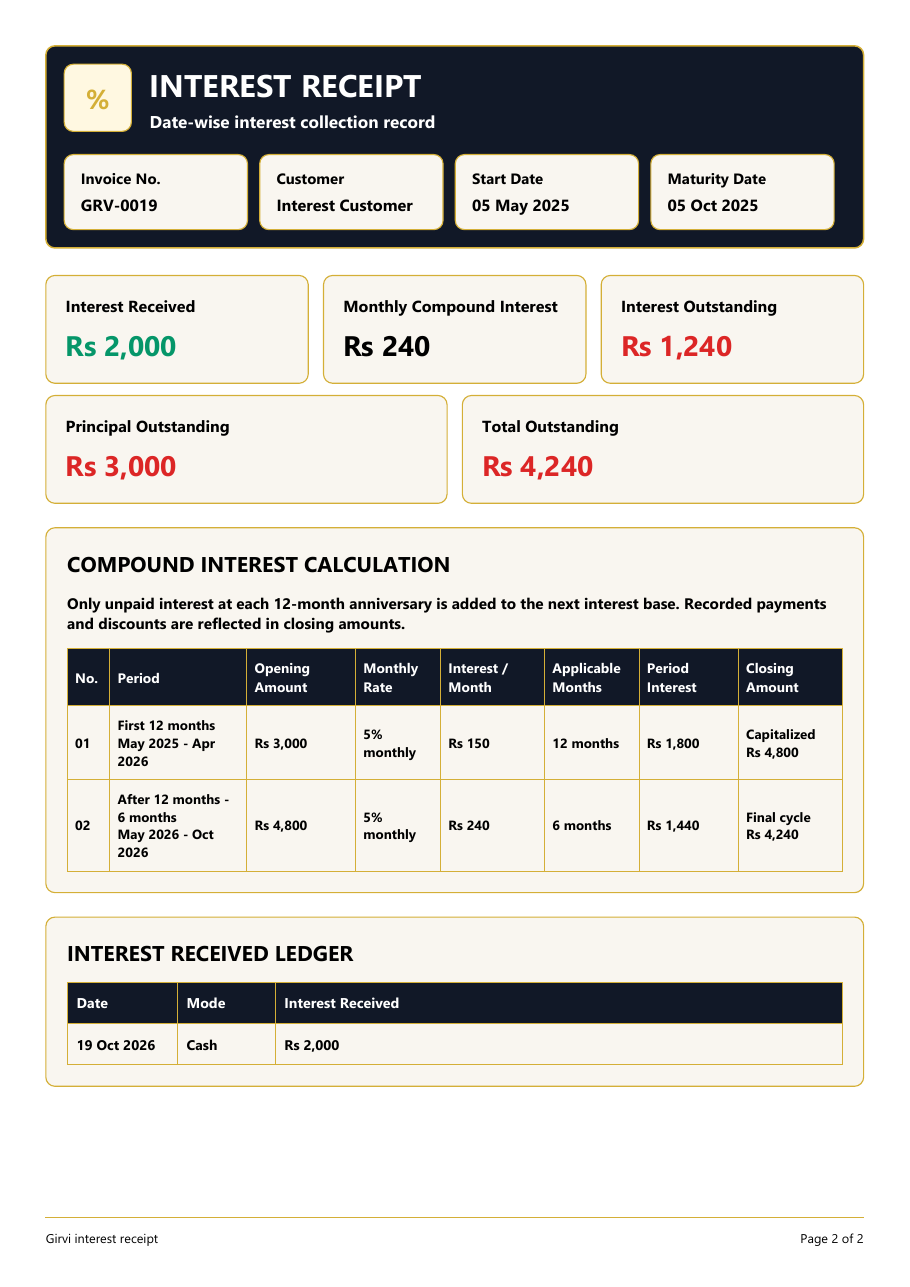
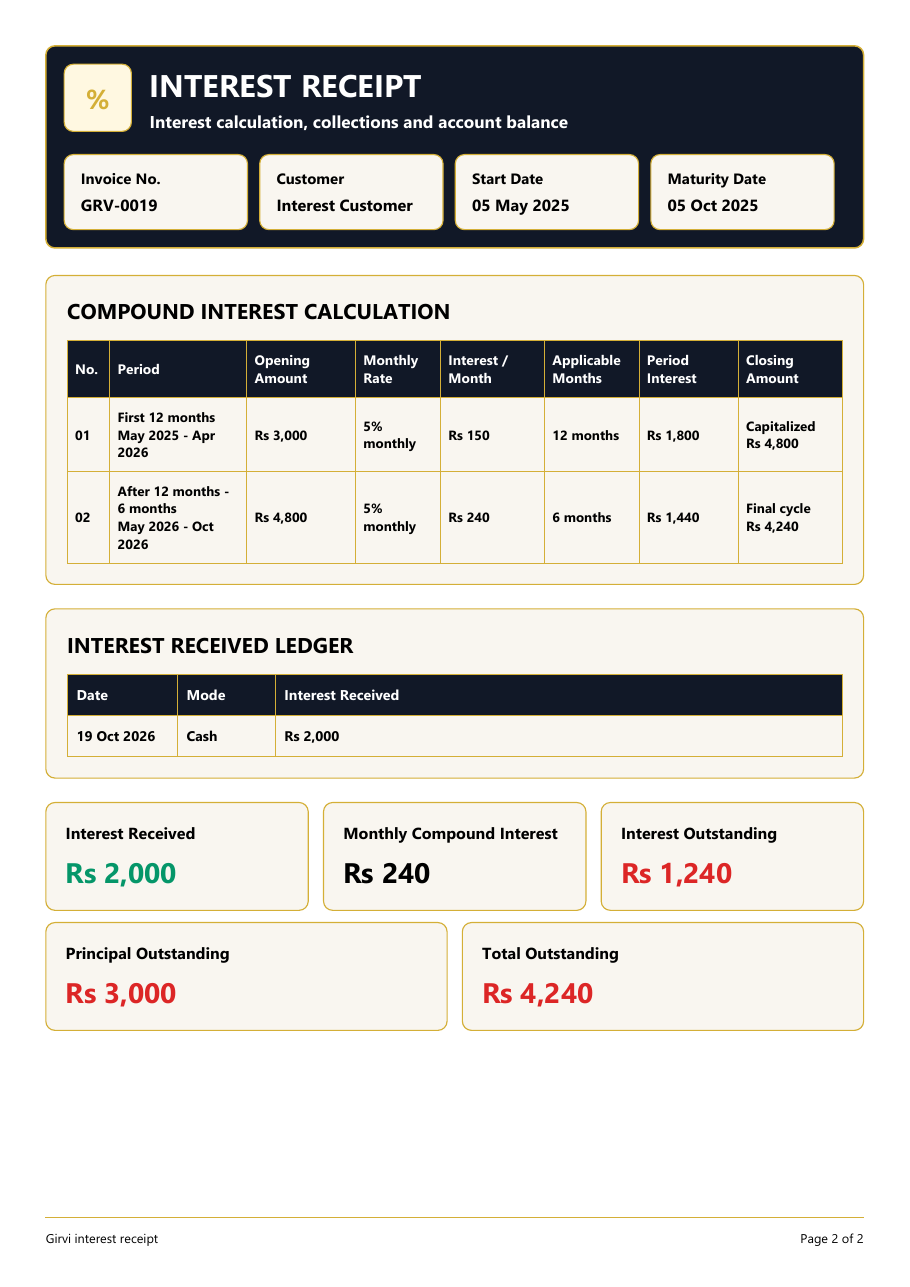
First backup of Lotus Prime ERP

diff --git a/lib/logic/girvi/girvi_invoice_pdf_appendix_pages.dart b/lib/logic/girvi/girvi_invoice_pdf_appendix_pages.dart
@@ -24,25 +24,25 @@ void _appendLifecycleReceiptPages({
         build: (_) => [
           _girviAppendixHeader(
             title: 'INTEREST RECEIPT',
-            subtitle: 'Date-wise interest collection record',
+            subtitle: 'Interest calculation, collections and account balance',
             draft: draft,
             profile: profile,
             duplicateCopy: duplicateCopy,
           ),
           pw.SizedBox(height: 18),
-          _girviInterestSummary(
-            draft,
-            interestEntries,
-            interestQuote,
-            profile,
-          ),
-          pw.SizedBox(height: 16),
           if (interestQuote.interestType ==
               GirviInterestCalculationType.compound) ...[
             _girviCompoundInterestCalculation(draft, interestQuote, profile),
             pw.SizedBox(height: 16),
           ],
           _girviInterestLedgerTable(interestEntries, profile),
+          pw.SizedBox(height: 16),
+          _girviInterestSummary(
+            draft,
+            interestEntries,
+            interestQuote,
+            profile,
+          ),
         ],
       ),
     );
@@ -567,64 +567,50 @@ pw.Widget _girviCompoundInterestCalculation(
   return _girviSection(
     title: 'COMPOUND INTEREST CALCULATION',
     profile: profile,
-    child: pw.Column(
-      crossAxisAlignment: pw.CrossAxisAlignment.start,
-      children: [
-        pw.Text(
-          'Only unpaid interest at each 12-month anniversary is added to the next interest base. Recorded payments and discounts are reflected in closing amounts.',
-          style: pw.TextStyle(
-            color: profile.bodyTextColor,
-            fontSize: profile.bodyFontSize + 1.2,
-            fontWeight: pw.FontWeight.bold,
-          ),
-        ),
-        pw.SizedBox(height: 10),
-        pw.TableHelper.fromTextArray(
-          context: null,
-          headers: const [
-            'No.',
-            'Period',
-            'Opening Amount',
-            'Monthly Rate',
-            'Interest / Month',
-            'Applicable Months',
-            'Period Interest',
-            'Closing Amount',
-          ],
-          data: rows,
-          headerStyle: pw.TextStyle(
-            color: profile.tableHeaderTextColor,
-            fontSize: profile.tableFontSize + 1,
-            fontWeight: pw.FontWeight.bold,
-          ),
-          cellStyle: pw.TextStyle(
-            color: profile.bodyTextColor,
-            fontSize: profile.tableFontSize + 0.75,
-            fontWeight: pw.FontWeight.bold,
-          ),
-          headerDecoration: pw.BoxDecoration(color: profile.tableHeaderColor),
-          border: pw.TableBorder.all(
-            color: profile.tableBorderColor,
-            width: profile.tableBorderWidth,
-          ),
-          cellAlignment: pw.Alignment.centerLeft,
-          headerAlignment: pw.Alignment.centerLeft,
-          cellPadding: pw.EdgeInsets.symmetric(
-            horizontal: profile.tableCellPadding,
-            vertical: profile.tableCellPadding + 1.5,
-          ),
-          columnWidths: const {
-            0: pw.FlexColumnWidth(0.45),
-            1: pw.FlexColumnWidth(1.45),
-            2: pw.FlexColumnWidth(1.15),
-            3: pw.FlexColumnWidth(0.9),
-            4: pw.FlexColumnWidth(1.1),
-            5: pw.FlexColumnWidth(1.0),
-            6: pw.FlexColumnWidth(1.05),
-            7: pw.FlexColumnWidth(1.1),
-          },
-        ),
+    child: pw.TableHelper.fromTextArray(
+      context: null,
+      headers: const [
+        'No.',
+        'Period',
+        'Opening Amount',
+        'Monthly Rate',
+        'Interest / Month',
+        'Applicable Months',
+        'Period Interest',
+        'Closing Amount',
       ],
+      data: rows,
+      headerStyle: pw.TextStyle(
+        color: profile.tableHeaderTextColor,
+        fontSize: profile.tableFontSize + 1,
+        fontWeight: pw.FontWeight.bold,
+      ),
+      cellStyle: pw.TextStyle(
+        color: profile.bodyTextColor,
+        fontSize: profile.tableFontSize + 0.75,
+        fontWeight: pw.FontWeight.bold,
+      ),
+      headerDecoration: pw.BoxDecoration(color: profile.tableHeaderColor),
+      border: pw.TableBorder.all(
+        color: profile.tableBorderColor,
+        width: profile.tableBorderWidth,
+      ),
+      cellAlignment: pw.Alignment.centerLeft,
+      headerAlignment: pw.Alignment.centerLeft,
+      cellPadding: pw.EdgeInsets.symmetric(
+        horizontal: profile.tableCellPadding,
+        vertical: profile.tableCellPadding + 1.5,
+      ),
+      columnWidths: const {
+        0: pw.FlexColumnWidth(0.45),
+        1: pw.FlexColumnWidth(1.45),
+        2: pw.FlexColumnWidth(1.15),
+        3: pw.FlexColumnWidth(0.9),
+        4: pw.FlexColumnWidth(1.1),
+        5: pw.FlexColumnWidth(1.0),
+        6: pw.FlexColumnWidth(1.05),
+        7: pw.FlexColumnWidth(1.1),
+      },
     ),
   );
 }
